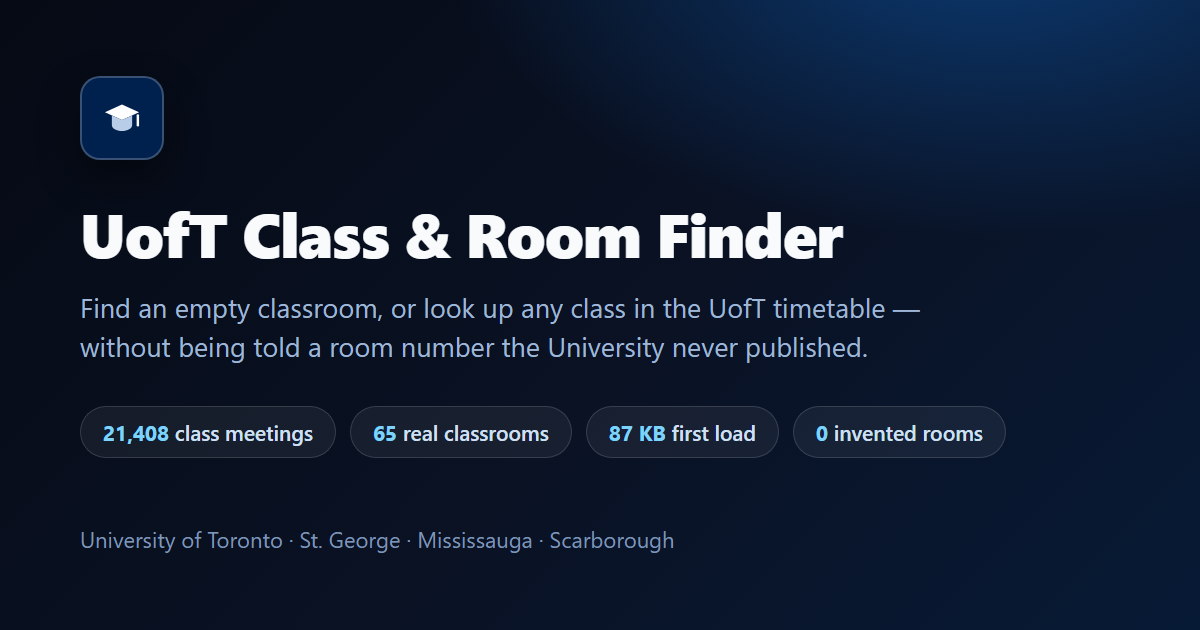
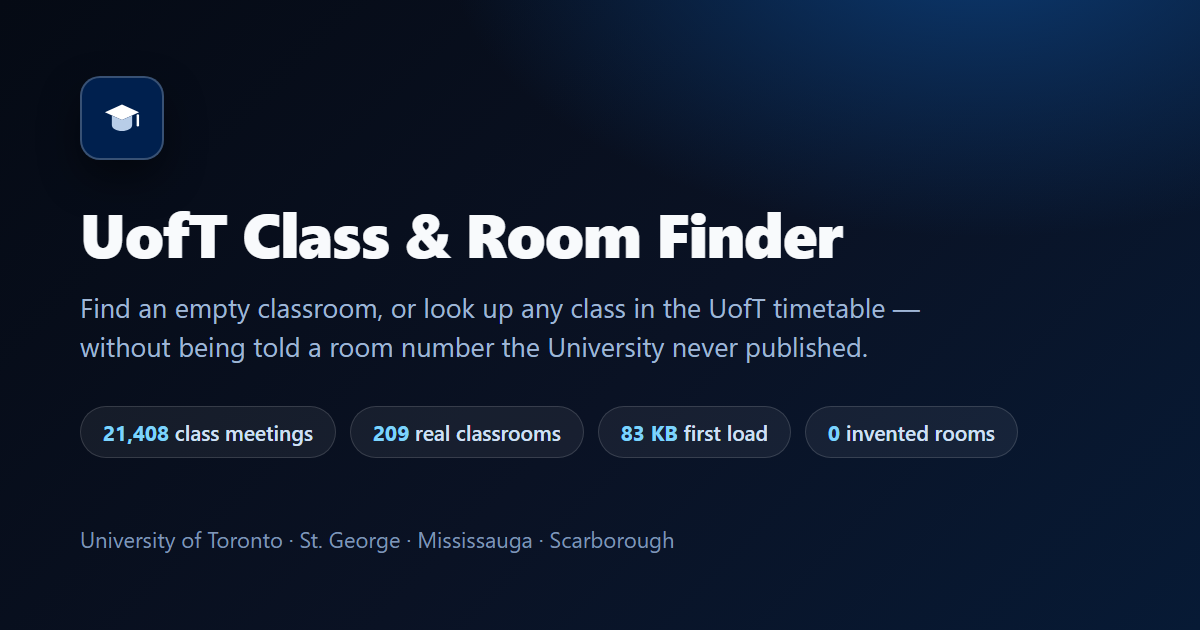
docs: correct the claims, counts and sources the review caught
- Report and README now describe room-level availability on all three
  campuses, the continuous 07:00 band per campus, and the six building
  codes that have no published name.
- CONTRIBUTING no longer says the snapshot omits 13:00.
- Building order copy says busiest first, matching the code.
- The term switch copy says one term at a time, not the whole year.
- Test, payload and architecture counts match the current suite and data;
  architecture lists the Scarborough room file and its writer.
- Attribution names the Scarborough Registrar/IITS sources; SECURITY
  enumerates every outbound host and the Font Awesome CDN.
- Regenerate the OG image at 209 classrooms / 83 KB and describe all
  three campuses in the package and page metadata.

Changed region(s): [[0.3083, 0.6635, 0.6475, 0.7238], [0.6783, 0.6635, 0.8325, 0.7238]]

diff --git a/src/app/layout.tsx b/src/app/layout.tsx
@@ -2,7 +2,7 @@ import type { Metadata } from "next";
 import "./globals.css";
 
 const DESCRIPTION =
-  "Find UofT classes and classrooms: classroom availability from the UTM space database and complete course schedules from the UofT timetable API.";
+  "Find UofT classes and classrooms across Mississauga, St. George and Scarborough: published classroom availability, complete course schedules, and room-level search.";
 
 export const metadata: Metadata = {
   // Where the project lives, so the social preview image resolves to an

diff --git a/README.md b/README.md
@@ -9,7 +9,7 @@ room number that the University has not published.**
 [![React](https://img.shields.io/badge/React-19-087ea4?logo=react&logoColor=087ea4)](https://react.dev)
 [![Tailwind](https://img.shields.io/badge/Tailwind-4-38bdf8?logo=tailwindcss)](https://tailwindcss.com)
 [![Python](https://img.shields.io/badge/Python-3.10--3.13-3776ab?logo=python)](https://python.org)
-[![Tests](https://img.shields.io/badge/tests-174%20passing-brightgreen)](#testing)
+[![Tests](https://img.shields.io/badge/tests-185%20passing-brightgreen)](#testing)
 [![License](https://img.shields.io/badge/license-MIT-blue)](LICENSE)
 
 </div>
@@ -71,7 +71,7 @@ fit the times you named first.
 - **The real St. George and Scarborough classrooms** - 334 and 71 of them,
   from two University services, each with the number of students it seats.
 - **How busy every building is right now**, on every campus, with the
-  emptiest buildings first: the closest published thing to "is there space
+  busiest buildings first: the closest published thing to "is there space
   here" where the University publishes no room occupancy.
 - **Find another section** of a course. The University publishes every
   section of every course: MAT223H1 has seventy-six of them. Name the days
@@ -81,7 +81,7 @@ fit the times you named first.
   buildings answer for that window instead of for right now.
 - **Search** by course code, building or classroom.
 - **Weekly timetables** for a course, a building or a single classroom.
-- A **Fall / Winter** switch, so you can see one term or the whole year.
+- A **Fall / Winter** switch, so you can see one term at a time.
 - A payload of **83 KB** for the first screen - the dataset is split per
   campus and served compressed, so the browser only downloads the campus it
   is about to show.
@@ -90,9 +90,9 @@ fit the times you named first.
 |---|---|
 | Class meetings | 21,408 across 7,383 course rows, 8 faculties, 3 campuses |
 | Classrooms | 209 rooms with published per-hour occupancy across three campuses (65 UTM, 50 St. George, 94 Scarborough), plus 334 St. George and 71 Scarborough classrooms with their capacities |
-| Invented values | **0** |
+| Invented room numbers | **0** |
 | First load | **83 KB** (was 8.3 MB) |
-| Tests | 174 across three layers, plus 4 automated accessibility checks |
+| Tests | 185 across three layers, plus 4 automated accessibility checks |
 
 ## The part that matters: it does not make things up
 
@@ -115,6 +115,10 @@ The same rule applies everywhere:
 | An hour the snapshot does not carry | Shows **unknown**, never "free" |
 | A building with no published name | Shows "Name not listed" |
 | A campus with no published room occupancy | Lists the classrooms that are published, and how busy each building is |
+
+Six building codes (`AM`, `RO`, `ZO`, `BY`, `UY`, `TL`) have no published
+name; those 170 meetings — 0.8% — show "Name not listed" rather than a
+generated label.
 
 Classroom availability is a **dated snapshot**, not a live feed, and the
 interface says that too — in the footer, once, rather than repeating it on
@@ -207,10 +211,10 @@ that those files add up to the totals in `meta.json` exactly:
 | Campus key | Meetings | On disk | Over the wire (gzipped) | In the UI |
 |---|---:|---:|---:|---|
 | `UTM` | 5,178 | 2.1 MB | **83 KB** | yes (the default) |
-| `UTSG` | 12,175 | 4.8 MB | 224 KB | yes |
-| `UTSC` | 3,961 | 1.5 MB | 68 KB | yes |
+| `UTSG` | 12,175 | 4.8 MB | 229 KB | yes |
+| `UTSC` | 3,961 | 1.5 MB | 72 KB | yes |
 | `SHERIDAN` | 94 | 36 KB | 2 KB | no tab - as before |
-| **Total** | **21,408** | **8.4 MB** | **377 KB** | |
+| **Total** | **21,408** | **8.4 MB** | **387 KB** | |
 
 ### Where the numbers come from
 
@@ -242,9 +246,13 @@ src/
     api/schedule/[campus]/  # one gzipped payload per campus
   components/
     ClassFinder.tsx         # client component: state, routing, list view
+    SectionFinder.tsx       # the sections of one course, marked against your window
+    WindowControl.tsx       # the day/hour window picker
     WeeklySchedule.tsx      # the weekly grid
     lib/
       schedule.ts           # pure logic - no browser APIs, fully unit-tested
+      sections.ts           # section matching and clash explanations
+      window.ts             # day/hour window parsing and formatting
       types.ts              # shared types
 scraper/
   src/uoft_scraper/
@@ -255,8 +263,8 @@ scraper/
     cli.py                  # `build` and `verify`
   tests/                    # 47 pytest tests + committed API fixtures
 tests/
-  unit/                     # 103 Vitest tests
-  e2e/                      # 24 Playwright tests
+  unit/                     # 109 Vitest tests
+  e2e/                      # 29 Playwright tests
 data/
   campus/<KEY>.json         # the dataset, one file per campus key
   rooms/<KEY>.json          # the classrooms with their occupancy, and where
@@ -277,14 +285,14 @@ Three decisions worth calling out:
 JSON, and the app only ever shows one campus at a time. Serving the whole
 thing cost 8.3 MB before the first pixel; the default campus now costs
 **83 KB over the wire** - a hundredfold difference - and St. George, which
-is the biggest of the four, costs 224 KB. `npm run data:size` measures the
+is the biggest of the four, costs 229 KB. `npm run data:size` measures the
 gzipped size of each payload and fails the build if the default campus
 crosses 150 KB, so the win cannot quietly be given back.
 
 **Everything that can be a pure function is one.** Time handling, term
 filtering, search, room-availability states and the timetable layout all live
 in `src/components/lib/schedule.ts`, which touches no browser API. That is
-why 103 of the 174 tests are fast and deterministic.
+why 109 of the 185 tests are fast and deterministic.
 
 **The data is verified, not trusted.** `npm run data:verify` re-checks the
 committed dataset's invariants - that the per-campus files add up to the
@@ -295,8 +303,8 @@ publish, that there are no duplicates. It runs in CI.
 
 ```bash
 npm run scraper:test   # 47 pytest  - saved API fixtures, no network
-npm test               # 103 Vitest - pure logic + React components
-npm run test:e2e       # 24 Playwright - against the production build
+npm test               # 109 Vitest - pure logic + React components
+npm run test:e2e       # 29 Playwright - against the production build
 npm run data:verify    # the committed dataset's invariants
 npm run data:size      # the gzipped payload budget
 ```
@@ -350,9 +358,12 @@ whether the wording makes sense.
 ## Data and attribution
 
 Class schedules come from the University of Toronto's public Timetable Builder
-API; classroom availability comes from U of T's Classroom Space Database; the
-St. George classroom inventory comes from U of T Space Management; building
-names come from Cobalt, U of T's open-data project.
+API. Classroom availability comes from U of T's Classroom Space Database at
+Mississauga, the Space Management booking portal at St. George, and
+Scarborough's Registrar classroom schedule service. The St. George classroom
+inventory comes from U of T Space Management and the Scarborough inventory
+from U of T Scarborough IITS. Building names come from Cobalt, U of T's
+open-data project.
 
 The University of Toronto publishes **no terms of use, rate-limit statement
 or versioning policy** for the timetable API. The API is read at a polite

diff --git a/docs/REPORT.md b/docs/REPORT.md
@@ -39,7 +39,7 @@ the one it replaced, and that makes a claim a reviewer can check.
 | Classrooms | 209 classrooms with published per-hour occupancy across three campuses (65 UTM, 50 St. George, 94 Scarborough), plus 334 St. George and 71 Scarborough classrooms with their capacities |
 | Invented values | **0** |
 | First load | **83 KB** (was 8.3 MB) |
-| Tests | 174 across three layers, plus 4 automated accessibility checks |
+| Tests | 185 across three layers, plus 4 automated accessibility checks |
 
 ---
 
@@ -199,7 +199,7 @@ classrooms. The archived `ctlfeed` fragments are per-event-type widgets —
 schedule service does not already give, and it cannot be refreshed without a
 person. The public service stays the source.
 
-### 2.5 The 1 PM hole was ours
+### 2.6 The 1 PM hole was ours
 
 The first version of this report carried this sentence: *"The published hours
 are a band. 07:00–12:00 and 14:00–20:00, with 13:00 omitted."* It was
@@ -380,9 +380,9 @@ and every classroom card ended with **"Not published"** — the same sentence
 65 times on one screen, which reads as an error rather than as a fact about
 the source. The application now says it once, in the banner, and shows the
 room only when the source has one. The published band is described as it
-actually is — *"7:00 AM – 12:00 PM and 2:00 PM – 8:00 PM"* — because a
-single range from 7 AM to 9 PM would claim the 13:00 hour the database
-omits.
+actually is — *7:00 AM–8:00 PM at Mississauga, and 7:00 AM–9:00 PM where St.
+George and Scarborough publish the extra hour* — rather than as one global
+range.
 
 ---
 
@@ -400,7 +400,7 @@ specific.
 | **Playwright** | 24 | The shipped product: campus tabs, search, the weekly timetable, the classroom view, the St. George and Scarborough classroom inventories, the St. George availability, the order the rooms are in, the section finder, the window, the API payload, keyboard operation | none — a production build, served locally |
 | **axe-core** | 4 views | WCAG 2.1 AA violations in the classroom list, a course timetable, a classroom timetable and St. George | none |
 
-**174 tests, none of which touches the University of Toronto's servers.** CI
+**185 tests, none of which calls the University of Toronto's servers.** CI
 runs them in four jobs; the data-verification and payload-budget jobs need
 no network either.
 
@@ -425,9 +425,9 @@ exactly the campus on screen, gzipped:
 |---|---:|---:|---:|---:|
 | UTM | 5,178 | 2.1 MB | **83 KB** | 8.3 MB |
 | UTSG | 12,175 | 4.8 MB | 229 KB | |
-| UTSC | 3,961 | 1.5 MB | 69 KB | |
+| UTSC | 3,961 | 1.5 MB | 72 KB | |
 | SHERIDAN | 94 | 36 KB | 2 KB | |
-| **Total** | **21,408** | **8.4 MB** | **383 KB** | 8.3 MB |
+| **Total** | **21,408** | **8.4 MB** | **387 KB** | 8.3 MB |
 
 A hundredfold reduction for the first screen, and a quarter of a megabyte
 for the whole catalogue. `npm run data:size` measures the gzipped size of
@@ -463,7 +463,7 @@ Every figure in this report can be checked:
 npm run data:verify     # the dataset's invariants
 npm run data:size       # the payload budget
 npm run scraper:test    # 47 tests, offline
-npm test                # 53 tests, offline
+npm test                # 109 tests, offline
 npm run test:e2e        # 24 tests, against a local production build
 ```
 
@@ -501,36 +501,39 @@ application's job is to make them visible rather than to hide them.
    sessions. No feature can tell a student the room their class is in. Any
    tool that claims to is guessing.
 
-2. **Room-level availability covers two campuses, not three.** Section 2.4
-   records every source that was checked. The University publishes occupancy
-   for Mississauga, and for St. George through the booking portal.
-   Scarborough publishes its classrooms but not their occupancy: its
-   calendar needs a UTORid, and the timetable API lists no room for any of
-   its 4,059 meetings. The application therefore publishes, for
-   Scarborough, the class timetable, the real classrooms of each building
-   with their capacities, and how many classes are running in each building
-   right now. That last number is the closest published thing to "is there
-   space here" there, and it is a proxy, not occupancy.
+2. **Room-level availability covers three campuses, at different
+   granularities.** Section 2.4 records every source that was checked.
+   Mississauga publishes hourly occupancy through the Classroom Space
+   Database; St. George publishes it through the booking portal for the
+   fifty rooms a student group can book; Scarborough publishes it through
+   the Registrar's classroom schedule service, which stores bookings to the
+   half hour (the app groups them by hour). The timetable API lists no room
+   for any of Scarborough's 3,961 meetings, so the application publishes
+   there the class timetable, the real classrooms of each building with
+   their capacities, and how many classes are running in each building right
+   now. That last number is a proxy for "is there space here", not
+   occupancy.
 
-   The St. George availability has a narrower coverage than the
-   Mississauga one: the booking portal answers for the rooms a student
-   group can book — fifty of them in eleven buildings, not the 334
-   classrooms the specification lists — and it says whether a room is free
-   but never which class is in it.
+   The St. George availability still has narrower coverage than
+   Mississauga's: the booking portal answers for the rooms a student group
+   can book — fifty of them in eleven buildings, not the 334 classrooms in
+   the inventory — and it says whether a room is free but never which class
+   is in it.
 
 3. **Availability is a snapshot, not live.** One week of the 2026 Fall
-   term (30 September – 6 October 2026). It does not know about a room
+   term (19–23 October 2026). It does not know about a room
    booked yesterday, and it will not know about changes until the dataset is
    regenerated.
 
-4. **The published hours are a band.** 07:00–20:00, with no gap in it. At
+4. **The published hours are a band.** 07:00–20:00 at Mississauga;
+   07:00–21:00 where St. George and Scarborough publish the extra hour. At
    any other hour — 6 AM, 10 PM — the honest answer is "unknown". The
    snapshot covers one week; the space database serves only the current
    week, so a capture of last week cannot be refreshed.
 
 5. **Six building codes have no published name**: `AM` (1 meeting), `RO` (6),
    `ZO` (11), `BY` (24), `UY` (27), `TL` (101). Together, 170 of 21,408
-   meetings — 0.8% — show a code instead of a name.
+   meetings — 0.8% — show "Name not listed" instead of a name.
 
 6. **Sheridan College's 94 meetings have no tab.** The campus key is in the
    dataset and reconciled in the totals, exactly as before, but the

diff --git a/docs/ARCHITECTURE.md b/docs/ARCHITECTURE.md
@@ -45,11 +45,14 @@ How the project is put together, and why each piece is where it is.
    │    hours
    │  scripts/fetch-utsc-classrooms.mjs  - the Scarborough IITS
    │    classroom specifications: 71 classrooms in 10 buildings
+   │  scripts/fetch-utsc-availability.mjs - the Registrar's classroom
+   │    schedule service: 94 rooms, booked to the half hour
    ▼
         ┌───────────────────────────────────────────────────────────┐
         │   classrooms/UTSG.json   17 KB   334 classrooms          │
         │   classrooms/UTSC.json    8 KB    71 classrooms          │
         │   rooms/UTSG.json        57 KB    50 rooms, with hours   │
+        │   rooms/UTSC.json       249 KB    94 rooms, with hours   │
         └───────────────────────────┬───────────────────────────────┘
                                     │  read at request time
                                     ▼
@@ -80,11 +83,11 @@ sequenceDiagram
     B->>R: GET /api/schedule/UTM
     R->>D: read (once, cached in memory)
     D-->>R: 5,178 meetings
-    R-->>B: 87 KB, gzip
+    R-->>B: 83 KB, gzip
     B->>B: parse, filter by term, group by building
     U->>B: clicks the St. George tab
     B->>R: GET /api/schedule/UTSG
-    R-->>B: 231 KB, gzip
+    R-->>B: 229 KB, gzip
     B->>B: keep UTM in memory, swap in St. George
 ```
 
@@ -164,7 +167,7 @@ that loads, and the campus tab follows the link.
 | File | Holds | Written by |
 |---|---|---|
 | `data/campus/<KEY>.json` | The class meetings for one campus key | `uoft-scraper build` |
-| `data/rooms/<KEY>.json` | The classrooms of one campus, their capacity and their per-hour occupancy, and the provenance of the source it came from | `uoft-scraper build` (UTM), `scripts/fetch-utsg-availability.mjs` (St. George) |
+| `data/rooms/<KEY>.json` | The classrooms of one campus, their capacity and their per-hour occupancy, and the provenance of the source it came from | `uoft-scraper build` (UTM), `scripts/fetch-utsg-availability.mjs` (St. George), `scripts/fetch-utsc-availability.mjs` (Scarborough) |
 | `data/meta.json` | Provenance: rows fetched vs. expected, the snapshot week, the filter funnel, the per-campus counts | `uoft-scraper build` |
 | `data/building_names.json` | 87 building codes → names, each with its source | hand-curated, from Cobalt |
 | `data/utm_metis_data.json` | The raw Metis snapshot the rooms were parsed from | the space database |
@@ -187,11 +190,11 @@ shows the source it was given rather than a name it invented.
 
 ```
                  ┌───────────────────────────┐
-                 │  Playwright · 24 tests    │  the shipped product
+                 │  Playwright · 29 tests    │  the shipped product
                  │  + axe-core · 4 views     │
                  └───────────────────────────┘
                  ┌───────────────────────────┐
-                 │  Vitest · 103 tests       │  logic and components
+                 │  Vitest · 109 tests       │  logic and components
                  └───────────────────────────┘
                  ┌───────────────────────────┐
                  │  pytest · 47 tests        │  the data contract
@@ -216,7 +219,7 @@ Two layers have a job beyond catching mistakes:
 | Decision | Reason |
 |---|---|
 | Store the dataset per campus | The app shows one campus; serving 8.3 MB to show 2.1 MB of it was the single worst thing about the app |
-| Gzip at the route, cache in memory | The payload is 85 KB gzipped against 2.1 MB raw |
+| Gzip at the route, cache in memory | The payload is 83 KB gzipped against 2.1 MB raw |
 | Split the term filter from the campus filter | The term toggle must stay instant, so both terms of a campus are fetched together |
 | Hash routing | Static hosting, and links that work from anywhere |
 | No room numbers, ever | The API publishes none; a wrong room is worse than no room |

diff --git a/CHANGELOG.md b/CHANGELOG.md
@@ -35,7 +35,8 @@ adheres to [Semantic Versioning](https://semver.org/spec/v2.0.0.html).
 - **The rooms are stored one file per campus**, each with the provenance of
   the source it came from, because the source is not the same for every
   campus: Mississauga publishes a classroom space database, St. George
-  publishes the booking portal's room list, Scarborough publishes neither.
+  publishes the booking portal's room list, Scarborough publishes its rooms
+  through the Registrar's schedule service.
 - **`scripts/auth-lsm-cookies.mjs`**: the sign-on's session cookie is a
   browser *session* cookie, so it does not survive the browser closing and
   the profile cannot keep it. The capture needs it as a cookie jar, so the
@@ -80,7 +81,7 @@ adheres to [Semantic Versioning](https://semver.org/spec/v2.0.0.html).
 - **The snapshot date is dated once**, in the footer, instead of on every
   view.
 - **How busy every building is right now**, on every campus, with the
-  emptiest buildings first. It is the closest published thing to "is there
+  busiest buildings first. It is the closest published thing to "is there
   space here" on the campuses where the University publishes no occupancy.
 - **The St. George tab now shows real classrooms** - the building's
   classrooms and their capacities - instead of only a class schedule.
@@ -109,7 +110,7 @@ adheres to [Semantic Versioning](https://semver.org/spec/v2.0.0.html).
   command. The service publishes half hours and the app shows hours, so a
   booked half hour makes its hour booked - the app never claims a room is
   free for an hour it is not.
-- 174 tests across three layers: 47 pytest, 103 Vitest, 24 Playwright.
+- 185 tests across three layers: 47 pytest, 109 Vitest, 29 Playwright.
 
 ## [0.3.0] — 2026-10-20
 
@@ -129,8 +130,8 @@ covered by an automated test pyramid.
   meetings, all 8 faculties, 3 campuses.
 - **The dataset is stored one file per campus key** (`data/campus/<KEY>.json`).
   The app fetches one campus at a time, so serving the whole catalogue cost
-  8.3 MB before the first pixel. The default campus now costs **87 KB over
-  the wire**; St. George, the largest, costs 231 KB. `npm run data:size`
+  8.3 MB before the first pixel. The default campus now costs **83 KB over
+  the wire**; St. George, the largest, costs 229 KB. `npm run data:size`
   measures the gzipped size of each payload and fails the build if the
   default campus crosses 150 KB.
 - **Rooms are never invented.** The timetable API publishes an empty

diff --git a/SECURITY.md b/SECURITY.md
@@ -19,9 +19,15 @@ days.
   public University of Toronto timetable and classroom data. It contains
   course codes, section names, times, building codes and instructor names —
   all of which are published in the UofT timetable for students to see.
-- **One outbound request path:** the scraper fetches the UofT timetable API
-  and the UTM space database. It runs manually, not on a schedule, and
-  `npm run data:build` makes a few hundred requests at a polite pace.
+- **Outbound request paths:** the scraper and capture scripts call the UofT
+  timetable API, the UTM space database, the St. George Space Management
+  portal (`lsm.utoronto.ca`, with a signed-in session cookie), the
+  Scarborough Registrar schedule service (`intranet.utsc.utoronto.ca`), and
+  the Scarborough IITS classroom pages (`utsc.utoronto.ca/iits`). They run
+  manually, not on a schedule, and `npm run data:build` makes a few hundred
+  requests at a polite pace. The app itself reads the committed snapshot,
+  but it loads Font Awesome from `cdnjs.cloudflare.com`; there is no
+  analytics or other third-party request.
 
 ## Known limitations
 

diff --git a/CONTRIBUTING.md b/CONTRIBUTING.md
@@ -20,7 +20,8 @@ Concretely:
   were only accepted when the campus Cobalt records for the building matches
   the campus of the timetable classes that meet there.
 - An hour of classroom availability is shown as "unknown" unless the space
-  database published it. The snapshot omits 13:00 entirely.
+  database published it. The snapshot includes 13:00; the published band is
+  continuous. If a future capture drops an hour, show it as unknown.
 
 ## Getting set up
 
